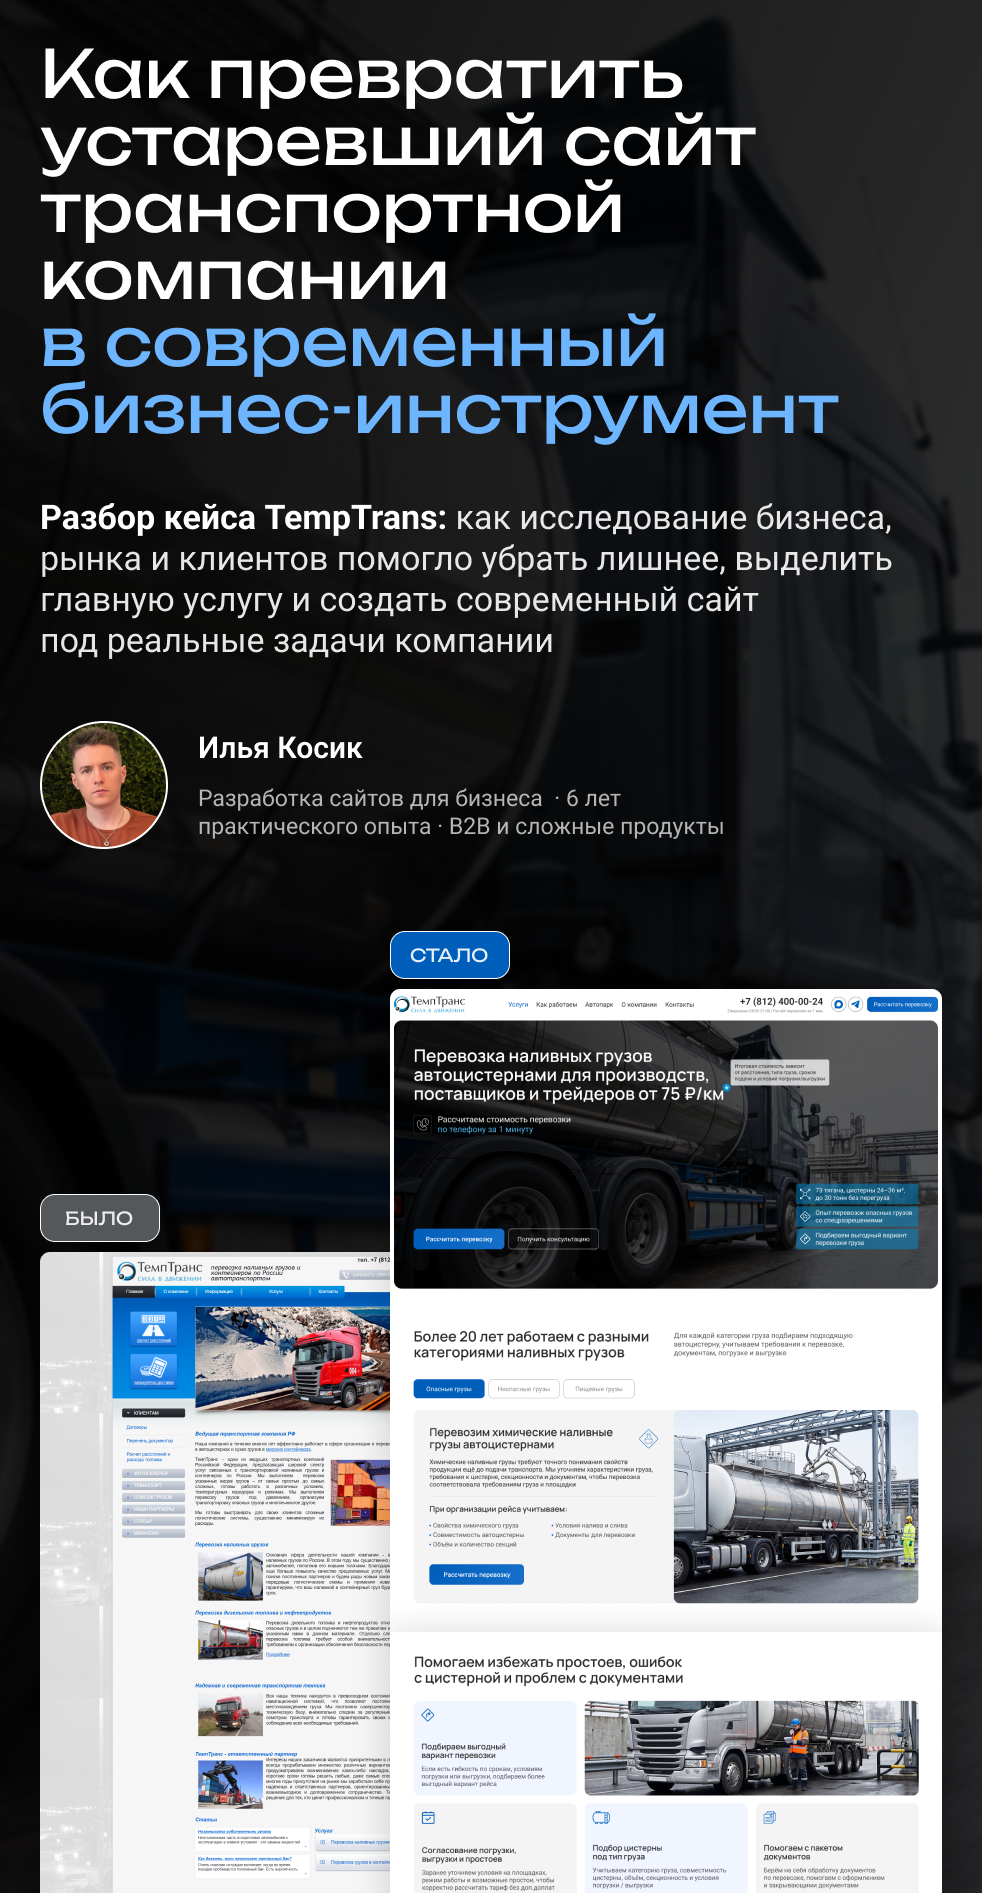
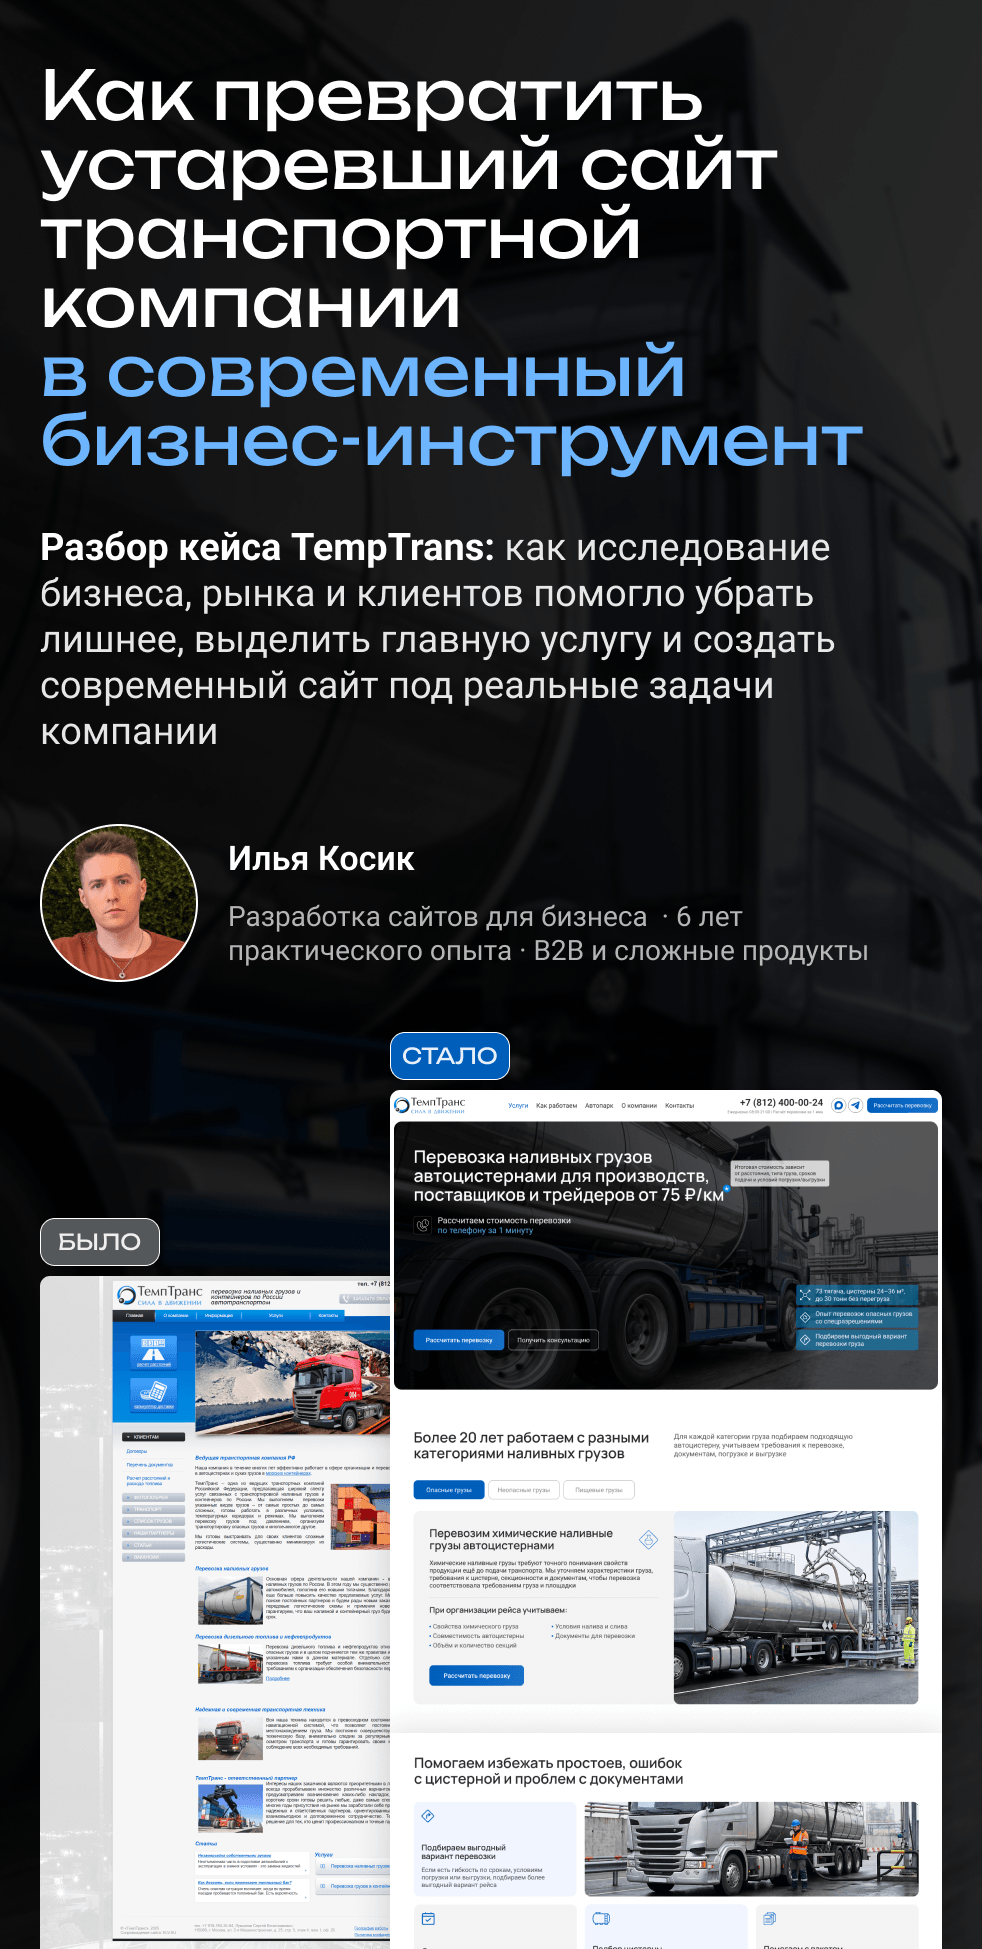
Replace mobile gallery with optimized vertical slide

diff --git a/ru/index.html b/ru/index.html
@@ -42,22 +42,6 @@
         .mobile-note { margin: 0 auto 14px; max-width: 720px; color: #5c6370; font-size: 14px; line-height: 1.4; }
         .mobile-vertical-slides { display: grid; gap: 14px; margin: 0 auto; max-width: 720px; }
         .mobile-vertical-slides img { display: block; width: 100%; height: auto; border: 1px solid #d8dde3; border-radius: 10px; box-sizing: border-box; box-shadow: 0 4px 14px rgba(20, 29, 38, .12); }
-        .slides { display: none; }
-        .slides { display: grid; gap: 14px; margin: 0 auto; max-width: 720px; }
-        .slide-thumb { appearance: none; display: block; width: 100%; padding: 0; overflow: hidden; background: #111; border: 1px solid #d8dde3; border-radius: 10px; box-shadow: 0 4px 14px rgba(20, 29, 38, .12); cursor: pointer; }
-        .slide-thumb img { display: block; width: 100%; height: auto; }
-        .slide-thumb:focus-visible, .viewer button:focus-visible { outline: 3px solid #3b9cff; outline-offset: 3px; }
-        .slide-number { display: block; padding: 8px 10px; background: #fff; color: #4f5967; text-align: left; font-size: 12px; font-weight: 700; }
-        .viewer[hidden] { display: none; }
-        .viewer { position: fixed; z-index: 10; inset: 0; display: flex; align-items: center; justify-content: center; box-sizing: border-box; padding: 76px 18px 118px; background: rgba(0, 0, 0, .96); }
-        .viewer-image { display: block; max-width: 100%; max-height: calc(100dvh - 194px); object-fit: contain; }
-        .viewer-close { position: absolute; z-index: 1; display: grid; place-items: center; width: 56px; height: 56px; padding: 0; border: 0; border-radius: 50%; background: rgba(255, 255, 255, .16); color: #fff; font-size: 34px; cursor: pointer; }
-        .viewer-close { top: 16px; right: 16px; font-size: 28px; }
-        .viewer-navigation { position: absolute; right: 18px; bottom: 22px; left: 18px; display: grid; grid-template-columns: 72px 1fr 72px; align-items: end; }
-        .viewer-prev, .viewer-next { display: grid; place-items: center; width: 72px; height: 72px; padding: 0; border: 1px solid rgba(255, 255, 255, .5); border-radius: 10px; background: #1674d1; color: #fff; font-size: 44px; line-height: 1; cursor: pointer; }
-        .viewer-prev:disabled, .viewer-next:disabled { border-color: rgba(255, 255, 255, .16); background: rgba(255, 255, 255, .08); color: rgba(255, 255, 255, .25); cursor: default; }
-        .viewer-next { justify-self: end; }
-        .viewer-count { justify-self: center; align-self: end; margin-bottom: 13px; color: #fff; font-size: 15px; font-weight: 700; }
       }
     </style>
   </head>
@@ -78,80 +62,8 @@
       </section>
       <p class="mobile-note">Листайте вниз, чтобы изучить презентацию.</p>
       <section class="mobile-vertical-slides" aria-label="Вертикальная версия презентации">
-        <img src="./mobile-slides/slide-01.png" alt="Первый слайд презентации TempTrans в мобильном формате">
+        <img src="./mobile-slides/slide-01.png" alt="Первый слайд презентации TempTrans в мобильном формате" loading="eager" fetchpriority="high">
       </section>
-      <section class="slides" id="slides" aria-label="Слайды презентации"></section>
     </main>
-
-    <div class="viewer" id="viewer" hidden role="dialog" aria-modal="true" aria-label="Просмотр слайдов">
-      <button class="viewer-close" type="button" aria-label="Закрыть просмотр">×</button>
-      <img class="viewer-image" id="viewer-image" alt="">
-      <div class="viewer-navigation" aria-label="Навигация по слайдам">
-        <button class="viewer-prev" type="button" aria-label="Предыдущий слайд">‹</button>
-        <output class="viewer-count" id="viewer-count"></output>
-        <button class="viewer-next" type="button" aria-label="Следующий слайд">›</button>
-      </div>
-    </div>
-
-    <script>
-      const slides = Array.from({ length: 10 }, (_, index) => `slides/slide-${String(index + 1).padStart(2, '0')}.png`);
-      const slidesElement = document.getElementById('slides');
-      const viewer = document.getElementById('viewer');
-      const viewerImage = document.getElementById('viewer-image');
-      const viewerCount = document.getElementById('viewer-count');
-      const closeButton = viewer.querySelector('.viewer-close');
-      const previousButton = viewer.querySelector('.viewer-prev');
-      const nextButton = viewer.querySelector('.viewer-next');
-      let activeIndex = 0;
-      let touchStartX = 0;
-
-      slides.forEach((source, index) => {
-        const button = document.createElement('button');
-        button.type = 'button';
-        button.className = 'slide-thumb';
-        button.setAttribute('aria-label', `Открыть слайд ${index + 1}`);
-        button.innerHTML = `<img src="${source}" alt="Слайд ${index + 1} презентации TempTrans" loading="lazy"><span class="slide-number">Слайд ${index + 1} из&nbsp;${slides.length}</span>`;
-        button.addEventListener('click', () => openViewer(index));
-        slidesElement.appendChild(button);
-      });
-
-      function showSlide(index) {
-        activeIndex = Math.max(0, Math.min(index, slides.length - 1));
-        viewerImage.src = slides[activeIndex];
-        viewerImage.alt = `Слайд ${activeIndex + 1} презентации TempTrans`;
-        viewerCount.textContent = `${activeIndex + 1} / ${slides.length}`;
-        previousButton.disabled = activeIndex === 0;
-        nextButton.disabled = activeIndex === slides.length - 1;
-      }
-
-      function openViewer(index) {
-        showSlide(index);
-        viewer.hidden = false;
-        document.body.style.overflow = 'hidden';
-        closeButton.focus();
-      }
-
-      function closeViewer() {
-        viewer.hidden = true;
-        document.body.style.overflow = '';
-      }
-
-      closeButton.addEventListener('click', closeViewer);
-      previousButton.addEventListener('click', () => showSlide(activeIndex - 1));
-      nextButton.addEventListener('click', () => showSlide(activeIndex + 1));
-      viewer.addEventListener('click', (event) => { if (event.target === viewer) closeViewer(); });
-      viewer.addEventListener('touchstart', (event) => { touchStartX = event.changedTouches[0].screenX; }, { passive: true });
-      viewer.addEventListener('touchend', (event) => {
-        const distance = event.changedTouches[0].screenX - touchStartX;
-        if (Math.abs(distance) < 45) return;
-        showSlide(activeIndex + (distance < 0 ? 1 : -1));
-      }, { passive: true });
-      document.addEventListener('keydown', (event) => {
-        if (viewer.hidden) return;
-        if (event.key === 'Escape') closeViewer();
-        if (event.key === 'ArrowLeft') showSlide(activeIndex - 1);
-        if (event.key === 'ArrowRight') showSlide(activeIndex + 1);
-      });
-    </script>
   </body>
 </html>
